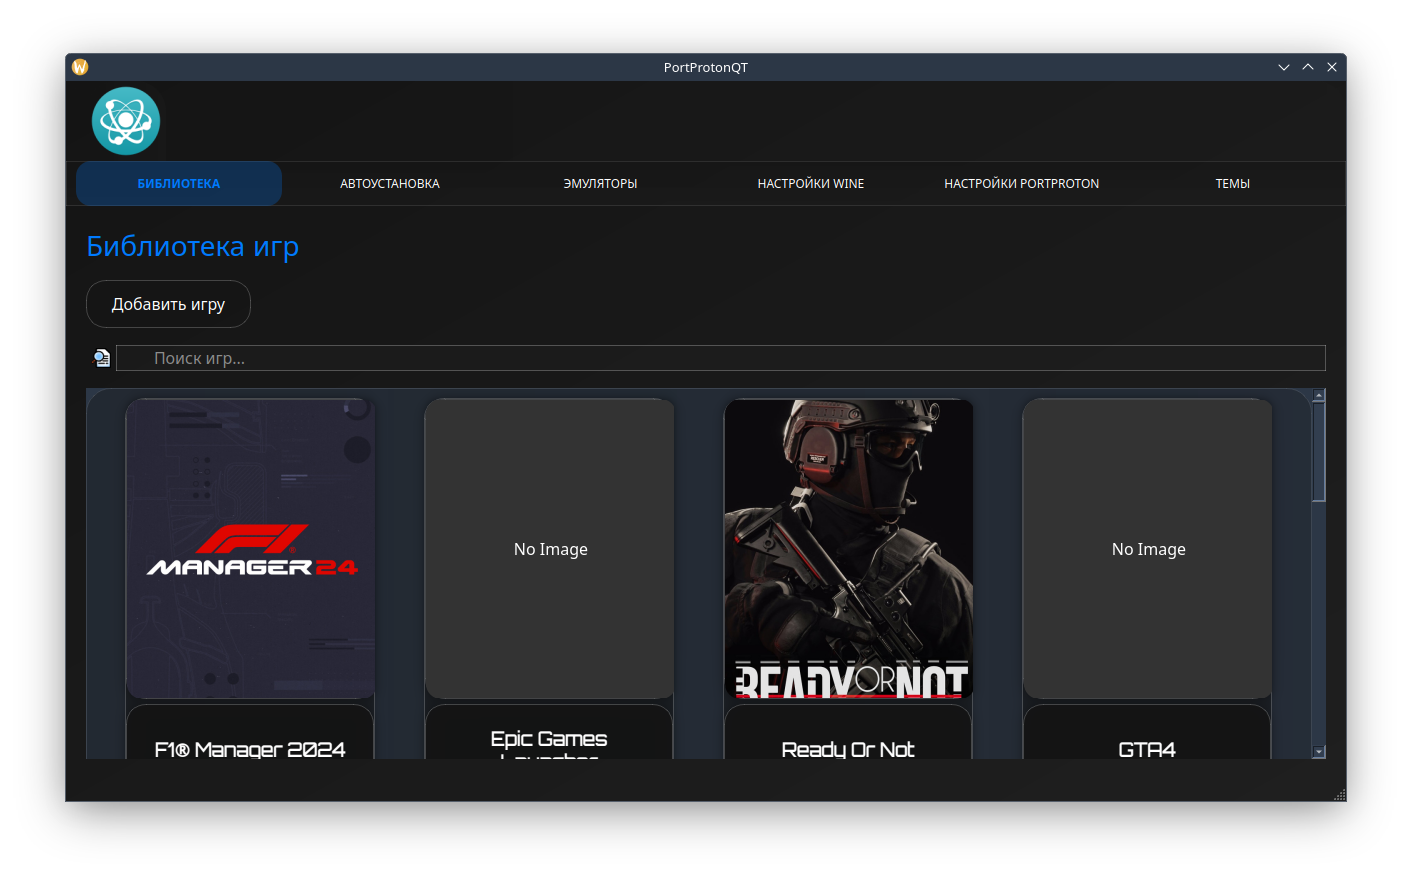
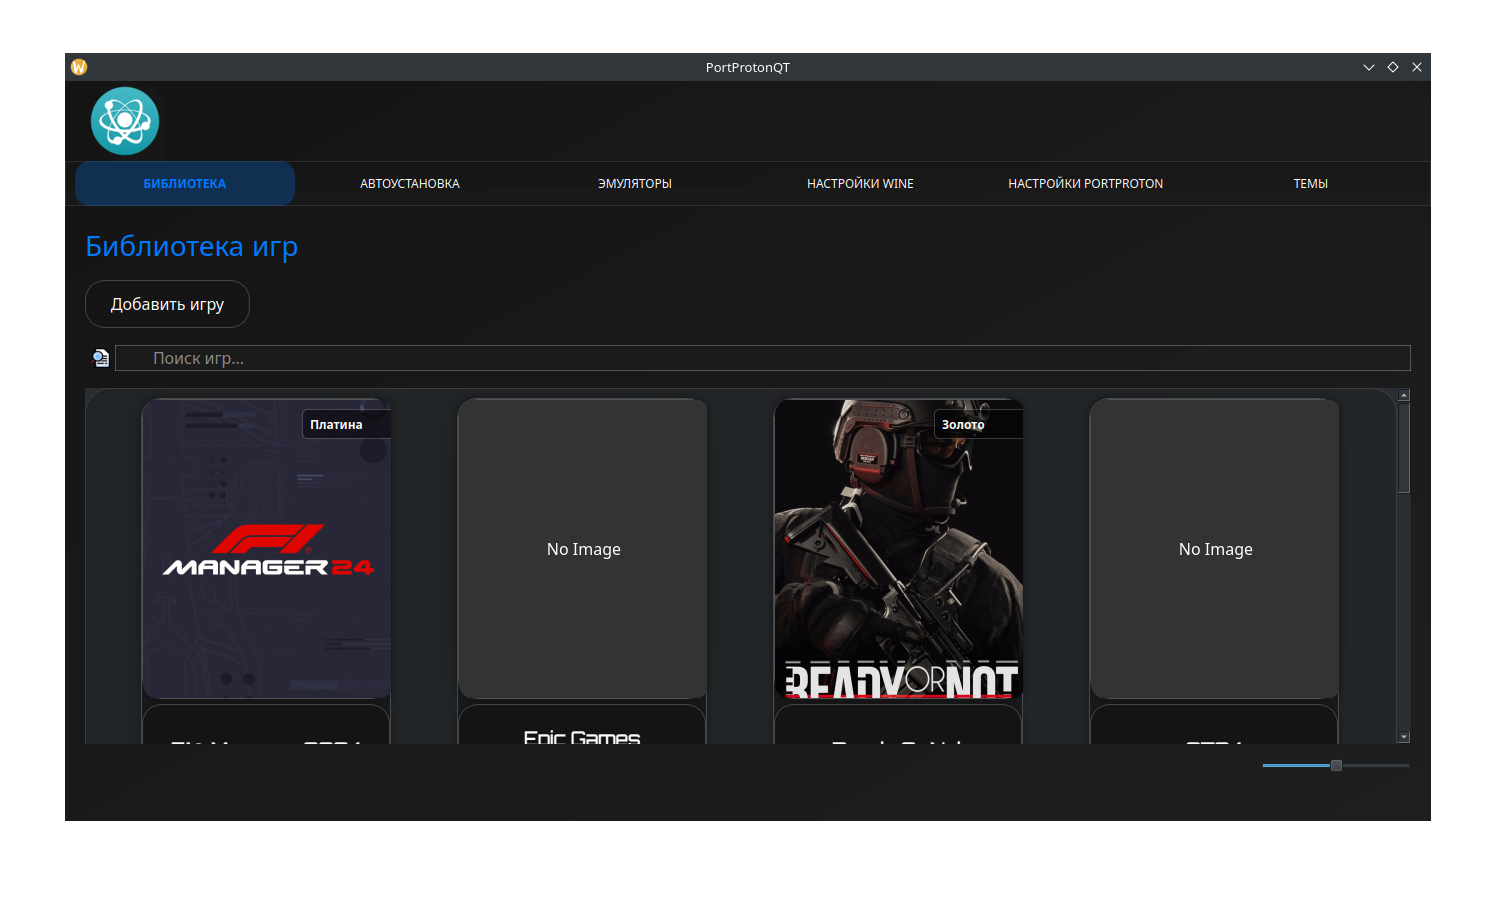
Added ProtonDB badge to card

diff --git a/portprotonqt/game_card.py b/portprotonqt/game_card.py
@@ -1,7 +1,20 @@
+from PySide6 import QtCore, QtGui, QtWidgets
 import portprotonqt.themes.standart_lite.styles as default_styles
 from portprotonqt.image_utils import load_pixmap, round_corners
-from PySide6 import QtCore, QtGui, QtWidgets
 
+class ClickableLabel(QtWidgets.QLabel):
+    clicked = QtCore.Signal()
+
+    def __init__(self, *args, **kwargs):
+        super().__init__(*args, **kwargs)
+        self.setCursor(QtCore.Qt.PointingHandCursor)
+
+    def mousePressEvent(self, event):
+        if event.button() == QtCore.Qt.LeftButton:
+            self.clicked.emit()
+            event.accept()
+        else:
+            super().mousePressEvent(event)
 
 class GameCard(QtWidgets.QFrame):
     def __init__(self, name, description, cover_path, appid, controller_support, exec_line, last_launch, formatted_playtime, protondb_tier, select_callback, theme=None, card_width=250, parent=None):
@@ -19,12 +32,11 @@ class GameCard(QtWidgets.QFrame):
 
         self.theme = theme if theme is not None else default_styles
 
-        # Используем переданный card_width для задания размеров
+        # Задаём размеры карточки
         self.setFixedSize(card_width, int(card_width * 1.6))
         self.setFocusPolicy(QtCore.Qt.StrongFocus)
         self.setStyleSheet(self.theme.GAME_CARD_WINDOW_STYLE)
 
-        # Анимация обводки и остальные свойства остаются без изменений
         self._borderWidth = 1
         self._gradientAngle = 0.0
         self._hovered = False
@@ -42,19 +54,60 @@ class GameCard(QtWidgets.QFrame):
         layout.setContentsMargins(0, 0, 0, 0)
         layout.setSpacing(5)
 
+        # Создаём контейнер для обложки с наложением (Stacked Layout)
+        coverWidget = QtWidgets.QWidget()
+        coverWidget.setFixedSize(card_width, int(card_width * 1.2))
+        coverLayout = QtWidgets.QStackedLayout(coverWidget)
+        coverLayout.setContentsMargins(0, 0, 0, 0)
+        coverLayout.setStackingMode(QtWidgets.QStackedLayout.StackAll)
+
+        # Обложка
         coverLabel = QtWidgets.QLabel()
-        # Размер обложки пропорционален: высота = card_width * 1.2
         coverLabel.setFixedSize(card_width, int(card_width * 1.2))
         pixmap = load_pixmap(cover_path, card_width, int(card_width * 1.2)) if cover_path else load_pixmap("", card_width, int(card_width * 1.2))
         pixmap = round_corners(pixmap, 15)
         coverLabel.setPixmap(pixmap)
         coverLabel.setStyleSheet(self.theme.COVER_LABEL_STYLE)
-        layout.addWidget(coverLabel)
+        coverLayout.addWidget(coverLabel)
 
+        # Метка ProtonDB
+        tier_text = self.getProtonDBText(protondb_tier)
+        self.protondbLabel = ClickableLabel(coverWidget)
+        if tier_text:
+            self.protondbLabel.setText(tier_text)
+            self.protondbLabel.setStyleSheet(self.theme.PROTONDB_BADGE_STYLE)
+        else:
+            self.protondbLabel.setVisible(False)
+        # Размещаем метку в правом верхнем углу обложки
+        self.protondbLabel.move(card_width - 90, 10)
+        self.protondbLabel.raise_()
+        self.protondbLabel.clicked.connect(self.open_protondb_report)
+
+        layout.addWidget(coverWidget)
+
+        # Название игры
         nameLabel = QtWidgets.QLabel(name)
         nameLabel.setAlignment(QtCore.Qt.AlignCenter)
         nameLabel.setStyleSheet(self.theme.GAME_CARD_NAME_LABEL_STYLE)
         layout.addWidget(nameLabel)
+
+    def getProtonDBText(self, tier):
+        if not tier:
+            return ""
+        translations = {
+            "platinum": "Платина",
+            "gold": "Золото",
+            "silver": "Серебро",
+            "bronze": "Бронза",
+            "borked": "Сломана",
+            "pending": "Ожидание"
+        }
+        return translations.get(tier.lower(), "")
+
+    def open_protondb_report(self):
+        # Открываем URL отчёта с использованием QDesktopServices
+        url = QtCore.QUrl(f"https://www.protondb.com/app/{self.appid}")
+        QtGui.QDesktopServices.openUrl(url)
 
     def getBorderWidth(self):
         return self._borderWidth
@@ -91,7 +144,7 @@ class GameCard(QtWidgets.QFrame):
             pen.setColor(QtGui.QColor(0, 0, 0, 0))
         painter.setPen(pen)
         rect = self.rect().adjusted(self._borderWidth / 2, self._borderWidth / 2,
-                                    -self._borderWidth / 2, -self._borderWidth / 2)
+                                     -self._borderWidth / 2, -self._borderWidth / 2)
         painter.drawRoundedRect(rect, 15, 15)
 
     def enterEvent(self, event):

diff --git a/portprotonqt/main_window.py b/portprotonqt/main_window.py
@@ -63,12 +63,11 @@ class MainWindow(QtWidgets.QMainWindow):
         headerLayout.setContentsMargins(20, 0, 20, 0)
 
         # Текст "PortProton" слева
-        self.titleLabel = QtWidgets.QLabel("PortProton")
         self.titleLabel = QtWidgets.QLabel()
         pixmap = self.theme_manager.current_theme_logo
         self.titleLabel.setPixmap(pixmap)
-        self.titleLabel.setFixedSize(pixmap.size())  # Фиксируем размер под изображение
-        self.titleLabel.setStyleSheet(self.theme.TITLE_LABEL_STYLE)  # Оставляем стиль (если нужно)
+        self.titleLabel.setFixedSize(pixmap.size())
+        self.titleLabel.setStyleSheet(self.theme.TITLE_LABEL_STYLE)
         headerLayout.addWidget(self.titleLabel)
         headerLayout.addStretch()
         mainLayout.addWidget(self.header)
@@ -336,7 +335,6 @@ class MainWindow(QtWidgets.QMainWindow):
             self.card_width = self.sizeSlider.value()
             self.sizeSlider.setToolTip(f"{self.card_width} px")
             self.populateGamesGrid(self.games)
-            from portprotonqt.config_utils import save_card_size
             save_card_size(self.card_width)
             self.setUpdatesEnabled(True)
         self.sizeSlider.valueChanged.connect(lambda val: self.sliderDebounceTimer.start())
@@ -707,38 +705,6 @@ class MainWindow(QtWidgets.QMainWindow):
             gamepadSupportLabel.setAlignment(QtCore.Qt.AlignCenter)
             gamepadSupportLabel.setStyleSheet(self.theme.GAMEPAD_SUPPORT_VALUE_STYLE)
             detailsLayout.addWidget(gamepadSupportLabel, alignment=QtCore.Qt.AlignCenter)
-
-        if protondb_tier:
-            status = protondb_tier.lower()
-            color = "#FFFFFF"
-            translated_status = protondb_tier
-            if status == "borked":
-                color = "#FF0000"
-                translated_status = "сломана"
-            elif status == "platinum":
-                color = "#E5E4E2"
-                translated_status = "платина"
-            elif status == "gold":
-                color = "#FFD700"
-                translated_status = "золото"
-            elif status == "silver":
-                color = "#C0C0C0"
-                translated_status = "серебро"
-            elif status == "bronze":
-                color = "#CD7F32"
-                translated_status = "бронза"
-            elif status == "pending":
-                color = "#FFA500"
-                translated_status = "ожидание"
-
-            protondbLink = f"https://www.protondb.com/app/{appid}"
-            link_html = f'<a href="{protondbLink}" style="color: {color}; text-decoration: none;">ProtonDB Tier: {translated_status}</a>'
-            protondbLabel = QtWidgets.QLabel(link_html)
-            protondbLabel.setTextFormat(QtCore.Qt.RichText)
-            protondbLabel.setTextInteractionFlags(QtCore.Qt.TextBrowserInteraction)
-            protondbLabel.setOpenExternalLinks(True)
-            protondbLabel.setAlignment(QtCore.Qt.AlignCenter)
-            detailsLayout.addWidget(protondbLabel, alignment=QtCore.Qt.AlignCenter)
 
         detailsLayout.addStretch(1)
 

diff --git a/portprotonqt/themes/standart_lite/styles.py b/portprotonqt/themes/standart_lite/styles.py
@@ -311,6 +311,15 @@ PREV_BUTTON_STYLE="background-color: rgba(0, 0, 0, 0.5); color: white; border: n
 NEXT_BUTTON_STYLE="background-color: rgba(0, 0, 0, 0.5); color: white; border: none;"
 CAPTION_LABEL_STYLE="color: white; font-size: 16px;"
 
+# СТИЛИ БЕЙДЖА PROTONDB НА КАРТОЧКЕ
+PROTONDB_BADGE_STYLE= """
+    background-color: rgba(0, 0, 0, 0.5);
+    color: white;
+    padding: 2px 4px;
+    border-radius: 5px;
+    font-weight: bold;
+"""
+
 # ФУНКЦИЯ ДЛЯ ДИНАМИЧЕСКОГО ГРАДИЕНТА (ДЕТАЛИ ИГР)
 # Функции из этой темы срабатывает всегда вне зависимости от выбранной темы, функции из других тем работают только в этих темах
 def detail_page_style(stops):
